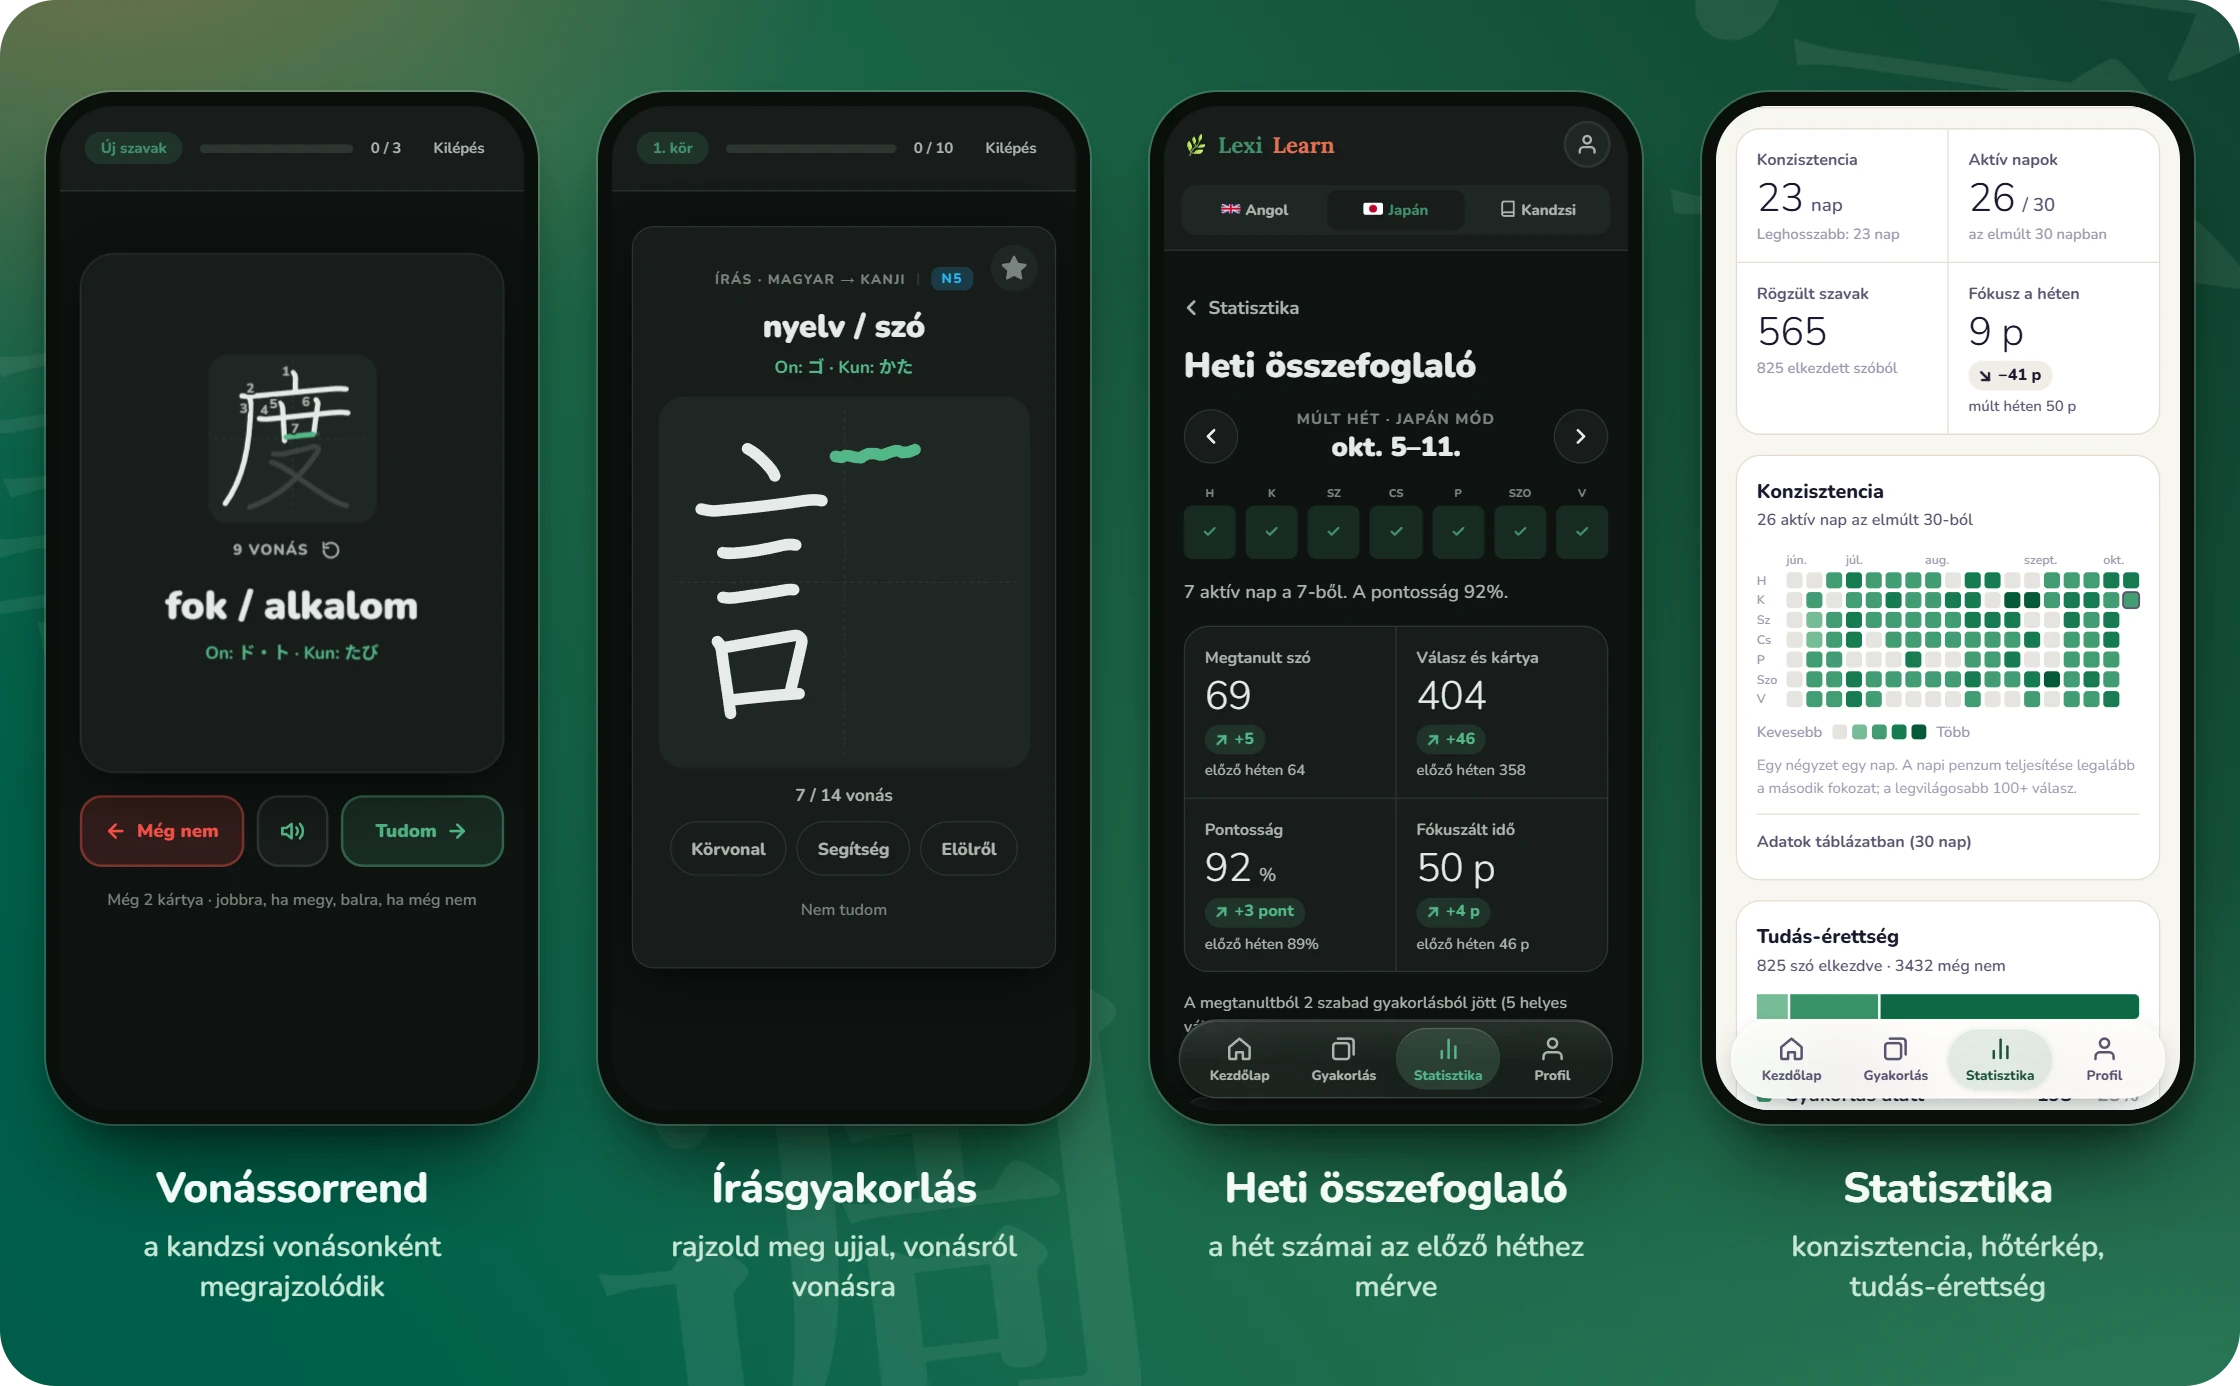
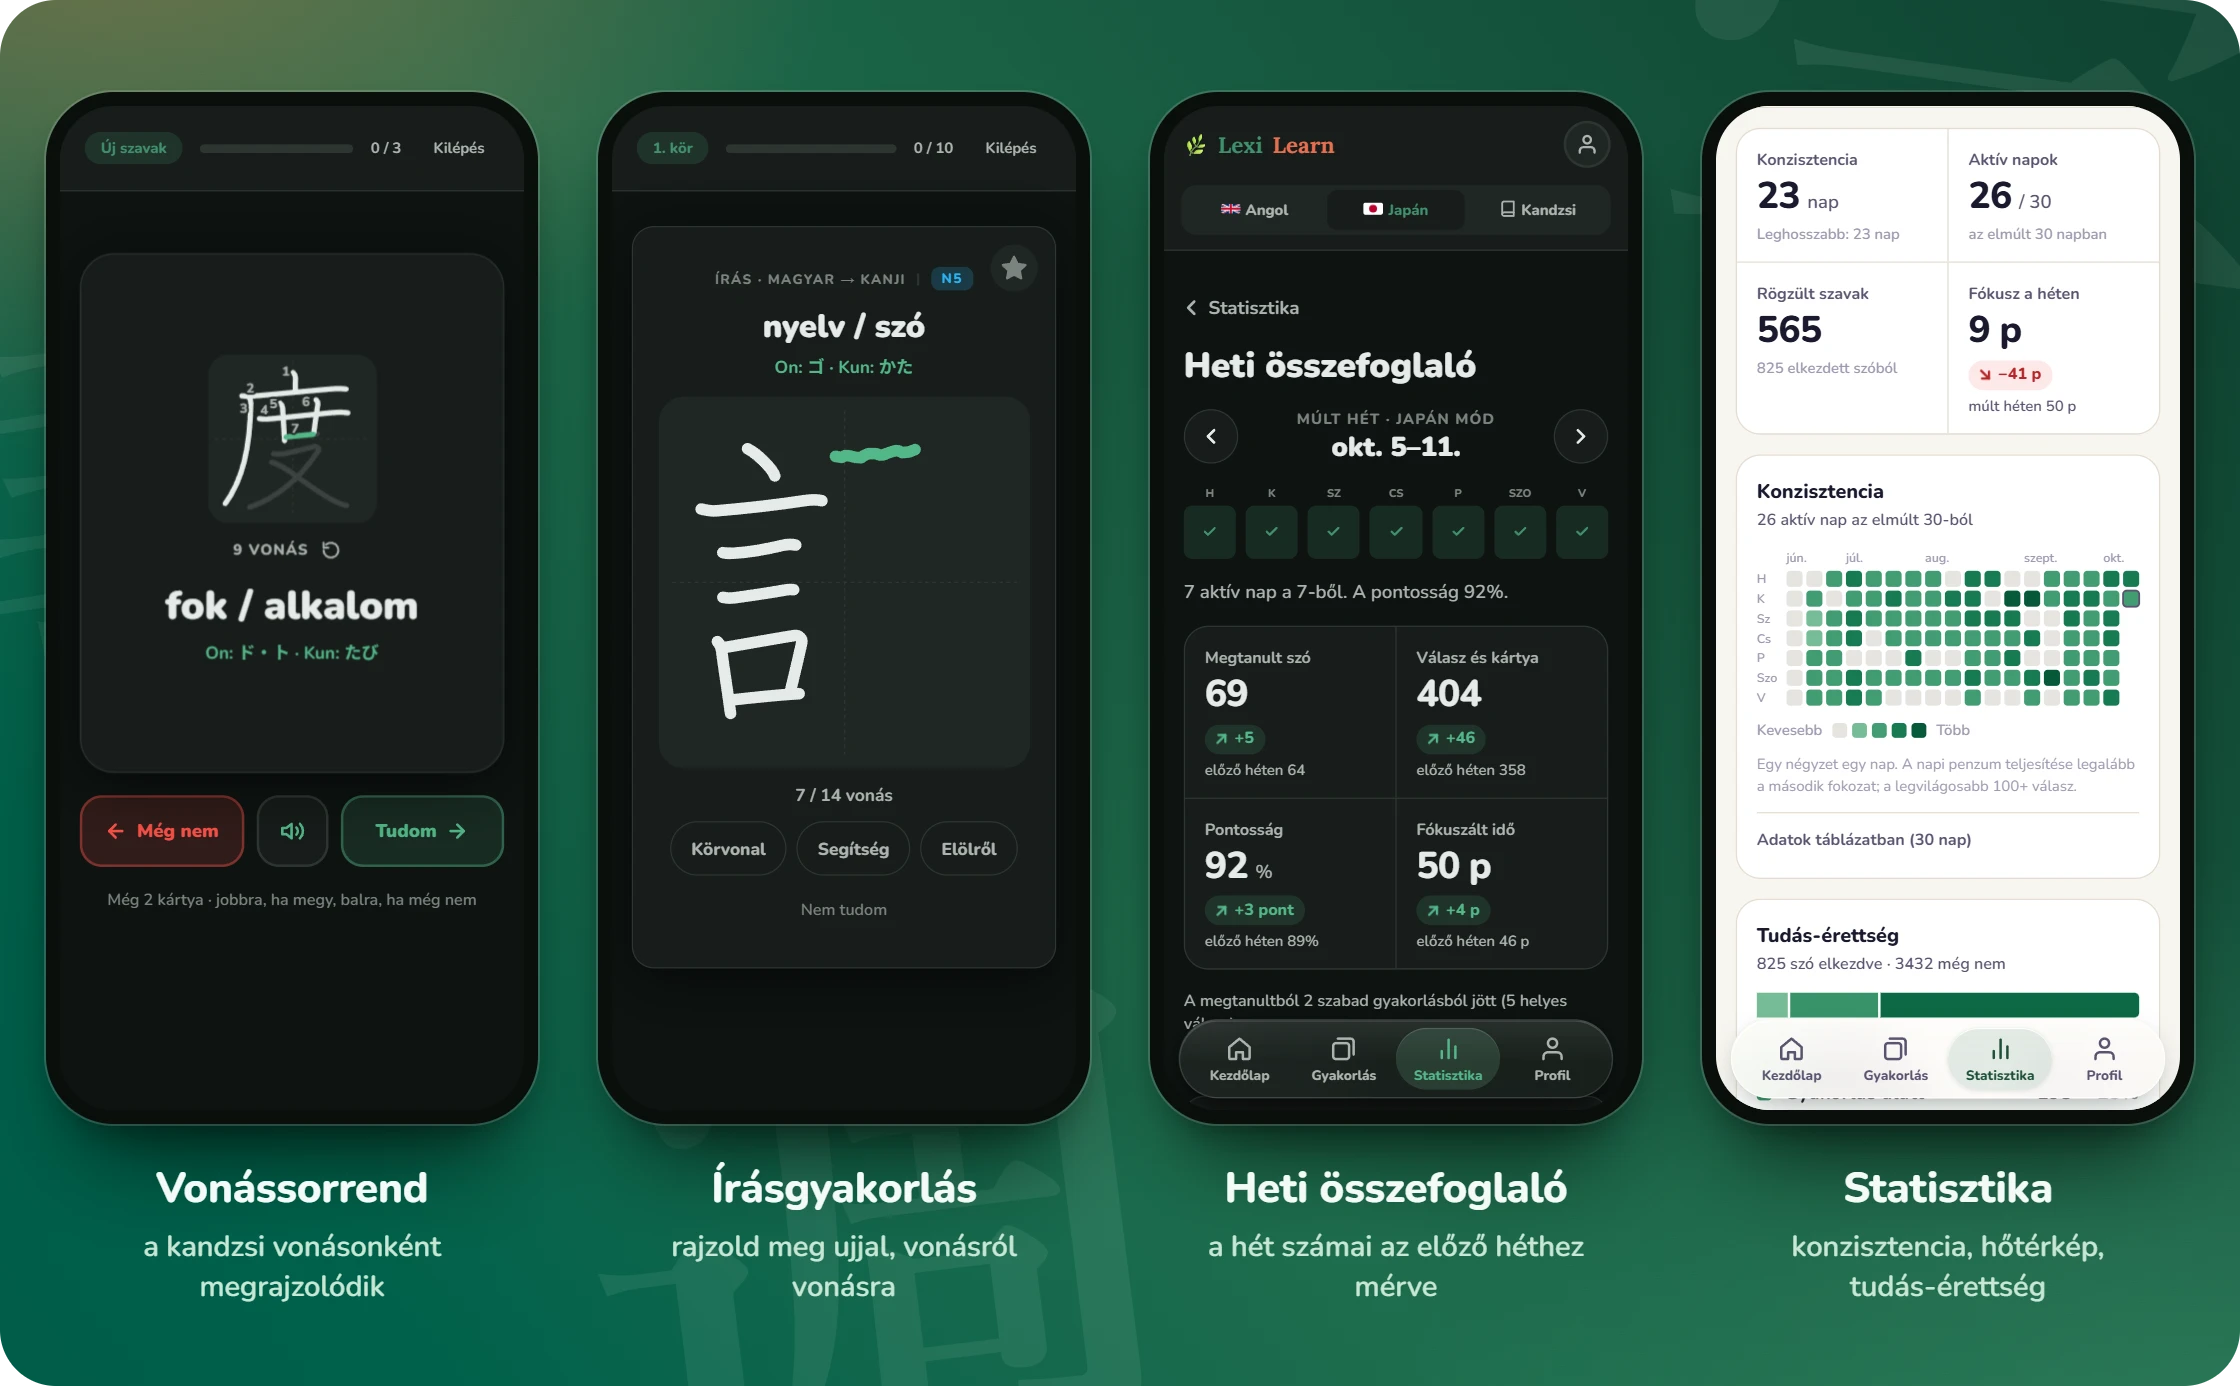
V13.15: vastag számok a statisztikákban, a csökkenés piros
- A nagy számok (KPI sáv, Heti összefoglaló, kör vége, Kezdőlap
  konzisztencia, JLPT sorok) vékony 300-as helyett vastag 800-as súlyt
  kaptak, ugyanazt, mint a Napi penzum száma; a mértékegység marad könnyebb.
- A változás-jelvény lefelé piros (nyíl és érték, halvány piros háttéren);
  sötét témában világosabb piros felirat, hogy meglegyen a 4,5:1 kontraszt.
  A változatlan állapot marad semleges.

DESIGN.md: a "Quiet Numbers" szabály helyett "Solid Numbers"; a jelvény
leírása az új színekkel. README: mindkét kép újragyártva.

diff --git a/style.css b/style.css
@@ -2338,11 +2338,11 @@ body[data-screen="dashboard"]:not([data-screen="practice"]):not([data-screen="ro
 .kpi-click { border: none; color: inherit; font-family: 'Nunito', sans-serif; text-align: left; cursor: pointer; }
 @media (hover: hover) { .kpi-click:hover { background: color-mix(in oklch, var(--surface) 82%, var(--primary-dim)); } }
 .kpi-label { font-size: 13px; font-weight: 700; color: var(--text-2); }
-.kpi-value { font-size: 32px; font-weight: 300; line-height: 1.1; letter-spacing: -0.01em; color: var(--text); white-space: nowrap; }
+.kpi-value { font-size: 30px; font-weight: 800; line-height: 1.15; letter-spacing: -0.02em; color: var(--text); white-space: nowrap; }
 .kpi-unit { margin-left: 6px; font-size: 15px; font-weight: 600; letter-spacing: 0; color: var(--text-2); }
 .kpi-sub { font-size: 12px; font-weight: 600; line-height: 1.35; color: var(--text-3); }
 /* Változás-jelvény (V13.15): pilla vastag nyíllal és előjeles értékkel, hogy az irány elsőre látsszon.
-   Felfelé zöld, lefelé semleges (a kevesebb nem hiba), változatlannál vízszintes vonal. */
+   Felfelé zöld, lefelé piros, változatlannál semleges vízszintes vonal. */
 .delta {
   display: inline-flex; align-items: center; gap: 3px; flex: none;
   height: 24px; padding: 0 9px 0 6px; border-radius: 999px;
@@ -2350,7 +2350,8 @@ body[data-screen="dashboard"]:not([data-screen="practice"]):not([data-screen="ro
 }
 .delta svg { flex: none; animation: delta-in 420ms var(--ease-out) 90ms both; }
 .delta.is-up { --dx: -6px; --dy: 6px; background: var(--success-bg); color: var(--success); }
-.delta.is-down { --dx: -6px; --dy: -6px; background: var(--surface-2); color: var(--text); }
+.delta.is-down { --dx: -6px; --dy: -6px; background: var(--error-bg); color: var(--error); }
+[data-theme="dark"] .delta.is-down { color: #ff7b72; } /* a sötét --error ezen a háttéren nem éri el a 4,5:1-et */
 .delta.is-flat { --dx: -6px; --dy: 0px; background: var(--surface-2); color: var(--text-2); }
 /* A nyíl megjelenéskor egyszer a saját irányába csúszik: a mozgás itt az irányt mutatja */
 @keyframes delta-in { from { opacity: 0; transform: translate(var(--dx), var(--dy)); } }
@@ -2472,7 +2473,7 @@ body[data-screen="dashboard"]:not([data-screen="practice"]):not([data-screen="ro
 .jl-track-label { font-size: 13px; font-weight: 700; color: var(--text-2); }
 .jl-track-value { margin-right: auto; }
 .jl-track-label + .jl-track-value { margin-left: auto; margin-right: 0; }
-.jl-track-value { font-size: 22px; font-weight: 300; line-height: 1.1; letter-spacing: -0.01em; color: var(--text); }
+.jl-track-value { font-size: 21px; font-weight: 800; line-height: 1.15; letter-spacing: -0.02em; color: var(--text); }
 .jl-track-open { padding: 0; border: none; background: none; font-family: 'Nunito', sans-serif; text-align: left; cursor: pointer; }
 .jl-track-open:hover { color: var(--primary-h); }
 .jl-track-value.is-big { font-size: 32px; }
@@ -2650,7 +2651,7 @@ body[data-screen="dashboard"]:not([data-screen="practice"]):not([data-screen="ro
 
 /* Kezdőlap: konzisztencia szám + címke (láng emoji helyett) */
 .streak-line { align-items: baseline; gap: 8px; }
-.streak-value { font-size: 34px; font-weight: 300; letter-spacing: -0.01em; color: var(--text); }
+.streak-value { font-size: 32px; font-weight: 800; letter-spacing: -0.02em; color: var(--text); }
 .streak-label { font-size: 15px; font-weight: 700; color: var(--text-2); }
 .home-quests .quest-daily-word { color: var(--text-2); background: var(--surface-2); }
 

diff --git a/js/stats/view.js b/js/stats/view.js
@@ -63,7 +63,7 @@ window.addEventListener('resize', () => {
 
 /* ── Változás-jelvény (KPI sáv, Heti összefoglaló) ──
    Pilla vastag nyíllal és előjeles értékkel, hogy a változás iránya elsőre látsszon. Felfelé zöld, lefelé
-   semleges (a kevesebb nem hiba), változatlannál vízszintes vonal: az irányt a nyíl alakja is hordozza,
+   piros, változatlannál semleges vízszintes vonal: az irányt a nyíl alakja és az előjel is hordozza,
    nem csak a szín. A nyíl megjelenéskor egyszer a saját irányába csúszik (style.css: delta-in). */
 const DELTA_ICONS = {
   up: '<path d="M7 17 17 7"/><path d="M8 7h9v9"/>',

diff --git a/DESIGN.md b/DESIGN.md
@@ -75,10 +75,10 @@ typography:
     letterSpacing: "0.08em"
   stat:
     fontFamily: "Nunito, sans-serif"
-    fontSize: "32px"
-    fontWeight: 300
-    lineHeight: 1.1
-    letterSpacing: "-0.01em"
+    fontSize: "30px"
+    fontWeight: 800
+    lineHeight: 1.15
+    letterSpacing: "-0.02em"
   brand:
     fontFamily: "Lora, Georgia, serif"
     fontSize: "20px"
@@ -219,9 +219,9 @@ Visszafogott stratégia (tört semlegesek + egy élénk cselekvésszín), amit a
 - **Title** (900, 19px, 1.2): fő gombok felirata, kártyán a jelentés 32px-es változata.
 - **Body** (600, 15px, 1.5): leírások, menü-opciók (700, 15px); hosszabb szöveg legfeljebb 60-70ch.
 - **Label** (800, 12px, 0.08em, NAGYBETŰ): szekciócímek ("NAPI PENZUM", "LECKE"), számlálók.
-- **Stat** (300, 32-34px, 1.1, -0.01em): a nagy számok (KPI sáv, Kezdőlap konzisztencia). Vékony, nyugodt számjegyek, arányos (nem tabuláris) számokkal; mellette 15px-es 600-as mértékegység ("nap", "/ 30").
+- **Stat** (800, 30-32px, 1.15, -0.02em): a nagy számok (KPI sáv, Kezdőlap konzisztencia, JLPT sorok 21px-en). Vastag, határozott számjegyek, ugyanazzal a súllyal, mint a Napi penzum száma; arányos (nem tabuláris) számokkal, mellette 15px-es 600-as mértékegység ("nap", "/ 30").
 
-**The Quiet Numbers Rule.** A nagy számok könnyű (300) súlyúak; a hangsúlyt a méret adja, nem a vastagság. Tabuláris számjegy csak oszlopba rendezett értékeknél (táblázat, tengely).
+**The Solid Numbers Rule.** A nagy számok vastagok (800), mint a felület többi hangsúlyos eleme; a mértékegység és a felirat marad könnyebb, így a szám és a kísérőszöveg súlya válik el élesen. A korábbi vékony (300) számjegyeket a felhasználó 2026-10-13-án elvetette: vékony számot ne használj. Tabuláris számjegy csak oszlopba rendezett értékeknél (táblázat, tengely).
 
 ### Named Rules
 **The 16px Input Rule.** Minden szövegbeviteli mező legalább 16px, különben iOS ráközelít fókuszkor.
@@ -278,7 +278,7 @@ Csoportosított lista, 62px-es sorok: kerek pipa, szó (17px, kanji 24px) + jele
 
 ### Statisztika dashboard (Signature Component)
 - **KPI sáv:** egyetlen felület 1px-es elválasztókkal (nem kártyarács), mobilon 2×2, asztalon 4 oszlop: Konzisztencia, Aktív napok (30), Rögzült szavak, Fókusz a héten. Címke 13px 700, érték a Stat stílusban, alatta 12px-es magyarázat vagy a változás-jelvény.
-- **Változás-jelvény** (`.delta`, V13.15): 24px magas pilla, benne vastag (3-as vonalú) átlós nyíl és az előjeles érték 13px 800-zal („+5”, „−41 p”, „+3 pont”). Felfelé erdő-köd háttér zöld felirattal, lefelé Felület 2 háttér szövegszínnel (a kevesebb nem hiba: piros nincs), változatlannál vízszintes vonal és „ugyanannyi”. Az irányt a nyíl alakja és az előjel is hordozza, nem csak a szín. Alatta, külön sorban a viszonyítási alap 12px-en, másodlagos szövegszínnel („előző héten 64”): így minden csempe egyforma, és a felirat új adatot mond, nem ismétli a címkét. A nyíl megjelenéskor egyszer a saját irányába csúszik (6px, 420 ms, 90 ms késleltetéssel); csökkentett mozgásnál nem. Ugyanez a jelvény áll a Heti összefoglaló „N3 felé a héten” soraiban is.
+- **Változás-jelvény** (`.delta`, V13.15): 24px magas pilla, benne vastag (3-as vonalú) átlós nyíl és az előjeles érték 13px 800-zal („+5”, „−41 p”, „+3 pont”). Felfelé erdő-köd háttér zöld felirattal, lefelé halvány piros háttér piros felirattal (a felhasználó döntése, 2026-10-13; sötét témában a felirat világosabb piros, #ff7b72, hogy meglegyen a 4,5:1), változatlannál semleges Felület 2 pilla vízszintes vonallal és „ugyanannyi”. Az irányt a nyíl alakja és az előjel is hordozza, nem csak a szín. Alatta, külön sorban a viszonyítási alap 12px-en, másodlagos szövegszínnel („előző héten 64”): így minden csempe egyforma, és a felirat új adatot mond, nem ismétli a címkét. A nyíl megjelenéskor egyszer a saját irányába csúszik (6px, 420 ms, 90 ms késleltetéssel); csökkentett mozgásnál nem. Ugyanez a jelvény áll a Heti összefoglaló „N3 felé a héten” soraiban is.
 - **Konzisztencia hőtérkép:** GitHub-stílusú naptárháló, 13px-es cellák 3px réssel, a hetek száma a szélességhez igazodik (mobilon ~19, asztalon ~42). Hónapcímkék felül, balra mind a hét nap címkéje (H, K, Sz, Cs, P, Szo, V; V13.14 óta, a csak minden második sort címkéző változat hiányosnak hatott), a mai nap 1,5px-es kerettel. Skálajelmagyarázat: "Kevesebb … Több".
 - **Tudás-érettség:** 20px magas, 100%-os sáv három szakasszal (Ismerkedés, Gyakorlás alatt, Rögzült), 2px felületrés köztük, csak a jobb vége lekerekített; alatta jelmagyarázat darabszámmal és aránnyal.
 - **Pontosság (14 nap):** 2px-es vonal, 8px-es pontok 2px felület-gyűrűvel, kihagyott napnál megszakad (nincs terület-kitöltés), 80%-os referencia hajszálvonal, végérték-címke. Crosshair tooltip.
@@ -294,7 +294,7 @@ Csoportosított lista, 62px-es sorok: kerek pipa, szó (17px, kanji 24px) + jele
 A tanulás / ismétlés vége képernyők családja, közös komponensekből, egyedi stílus nélkül:
 - **Cím és alcím:** Nunito 900, 26px ("1. kör vége", "Hibátlan kör"), alatta egy mondat 15px-en ("Stabil tudás.").
 - **Pontosság:** a Kezdőlap "Napi penzum" kártyája (`.goal`): balra "PONTOSSÁG" címke, jobbra a százalék, alatta egyszínű zöld sáv. Piros szakasz, körgrafikon és "hős-szám" nincs.
-- **Számsor:** a Statisztika KPI sávja 3 oszlopban (Helyes, Hibás, Idő), vékony számokkal; a mértékegység kisebb ("14 mp", "2:05 p"). Színes (zöld / piros / kék) doboz nincs.
+- **Számsor:** a Statisztika KPI sávja 3 oszlopban (Helyes, Hibás, Idő), a Stat stílus vastag számaival; a mértékegység kisebb ("14 mp", "2:05 p"). Színes (zöld / piros / kék) doboz nincs.
 - **Hibás szavak:** "Következő körbe kerül" (gyors ismétlésnél "Elsőre nem ment") részletcím, alatta semleges lista (kana balra, jelentés jobbra), piros háttér nélkül.
 - **Műveletek alul, a hüvelykujj alatt:** ha van következő kör, az a korall fő gomb a szavak számával ("Következő kör · 3 szó"), mellette csendes "Befejezés"; ha nincs, a "Befejezés" a korall gomb.
 - A kérdés fölötti irány-felirat csak szöveg ("KANA → MAGYAR"): külső szerverről betöltött kép (zászló) offline nem működik, ezért tilos.
